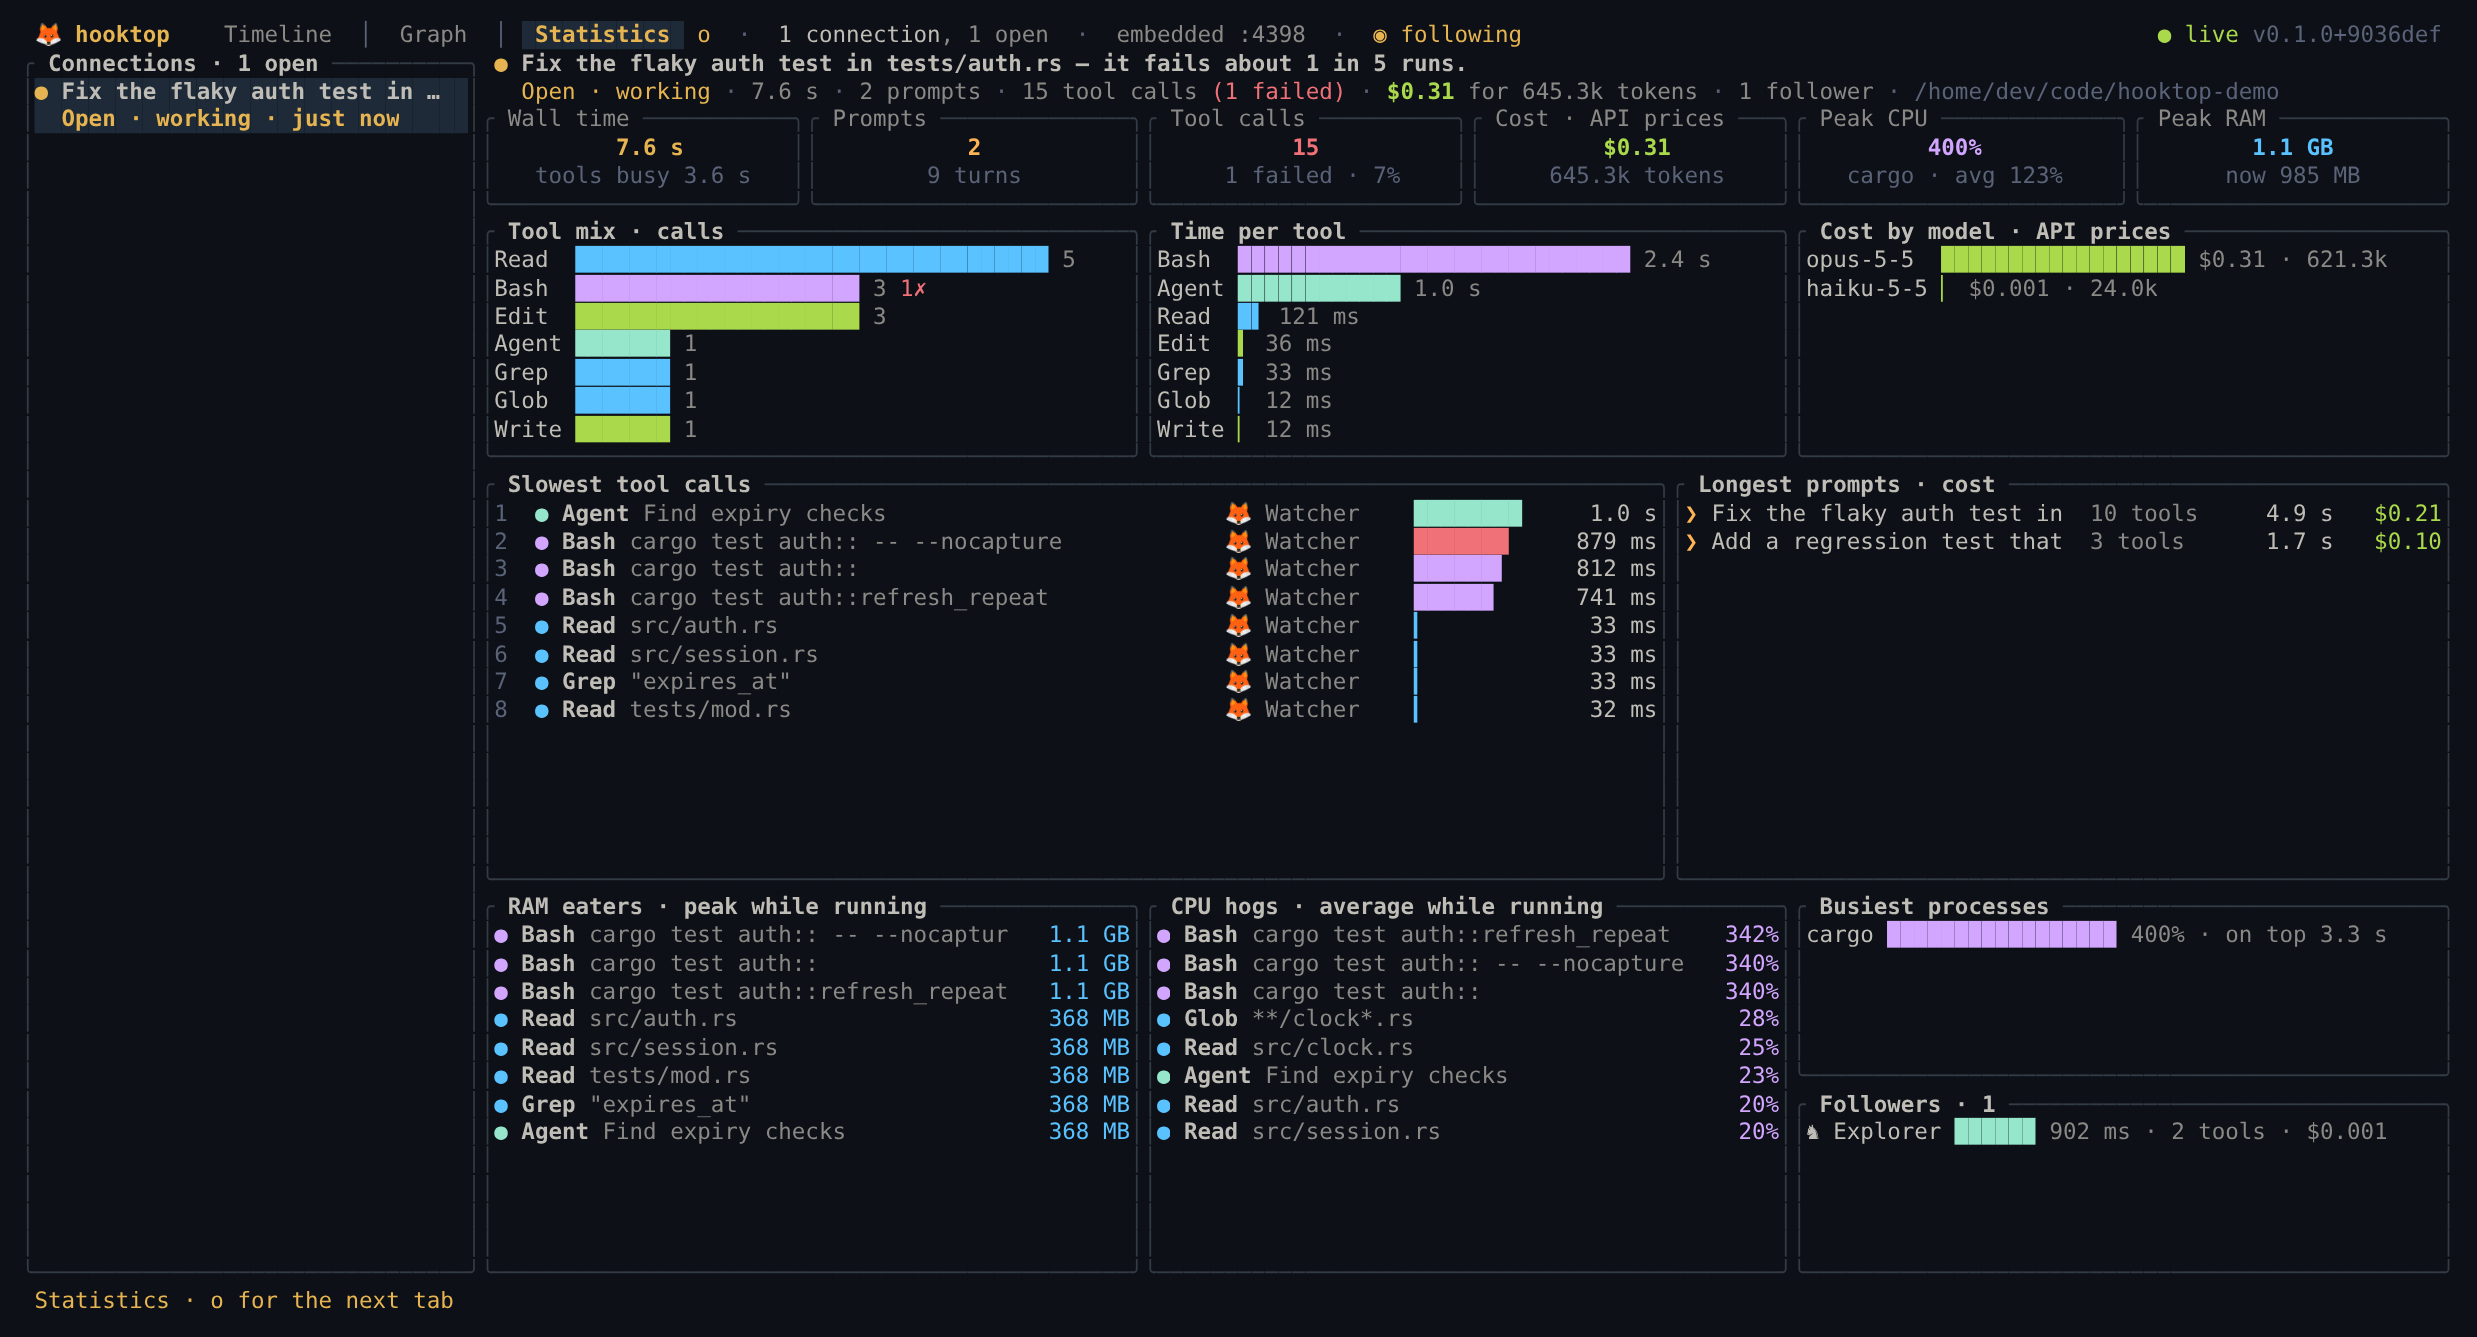
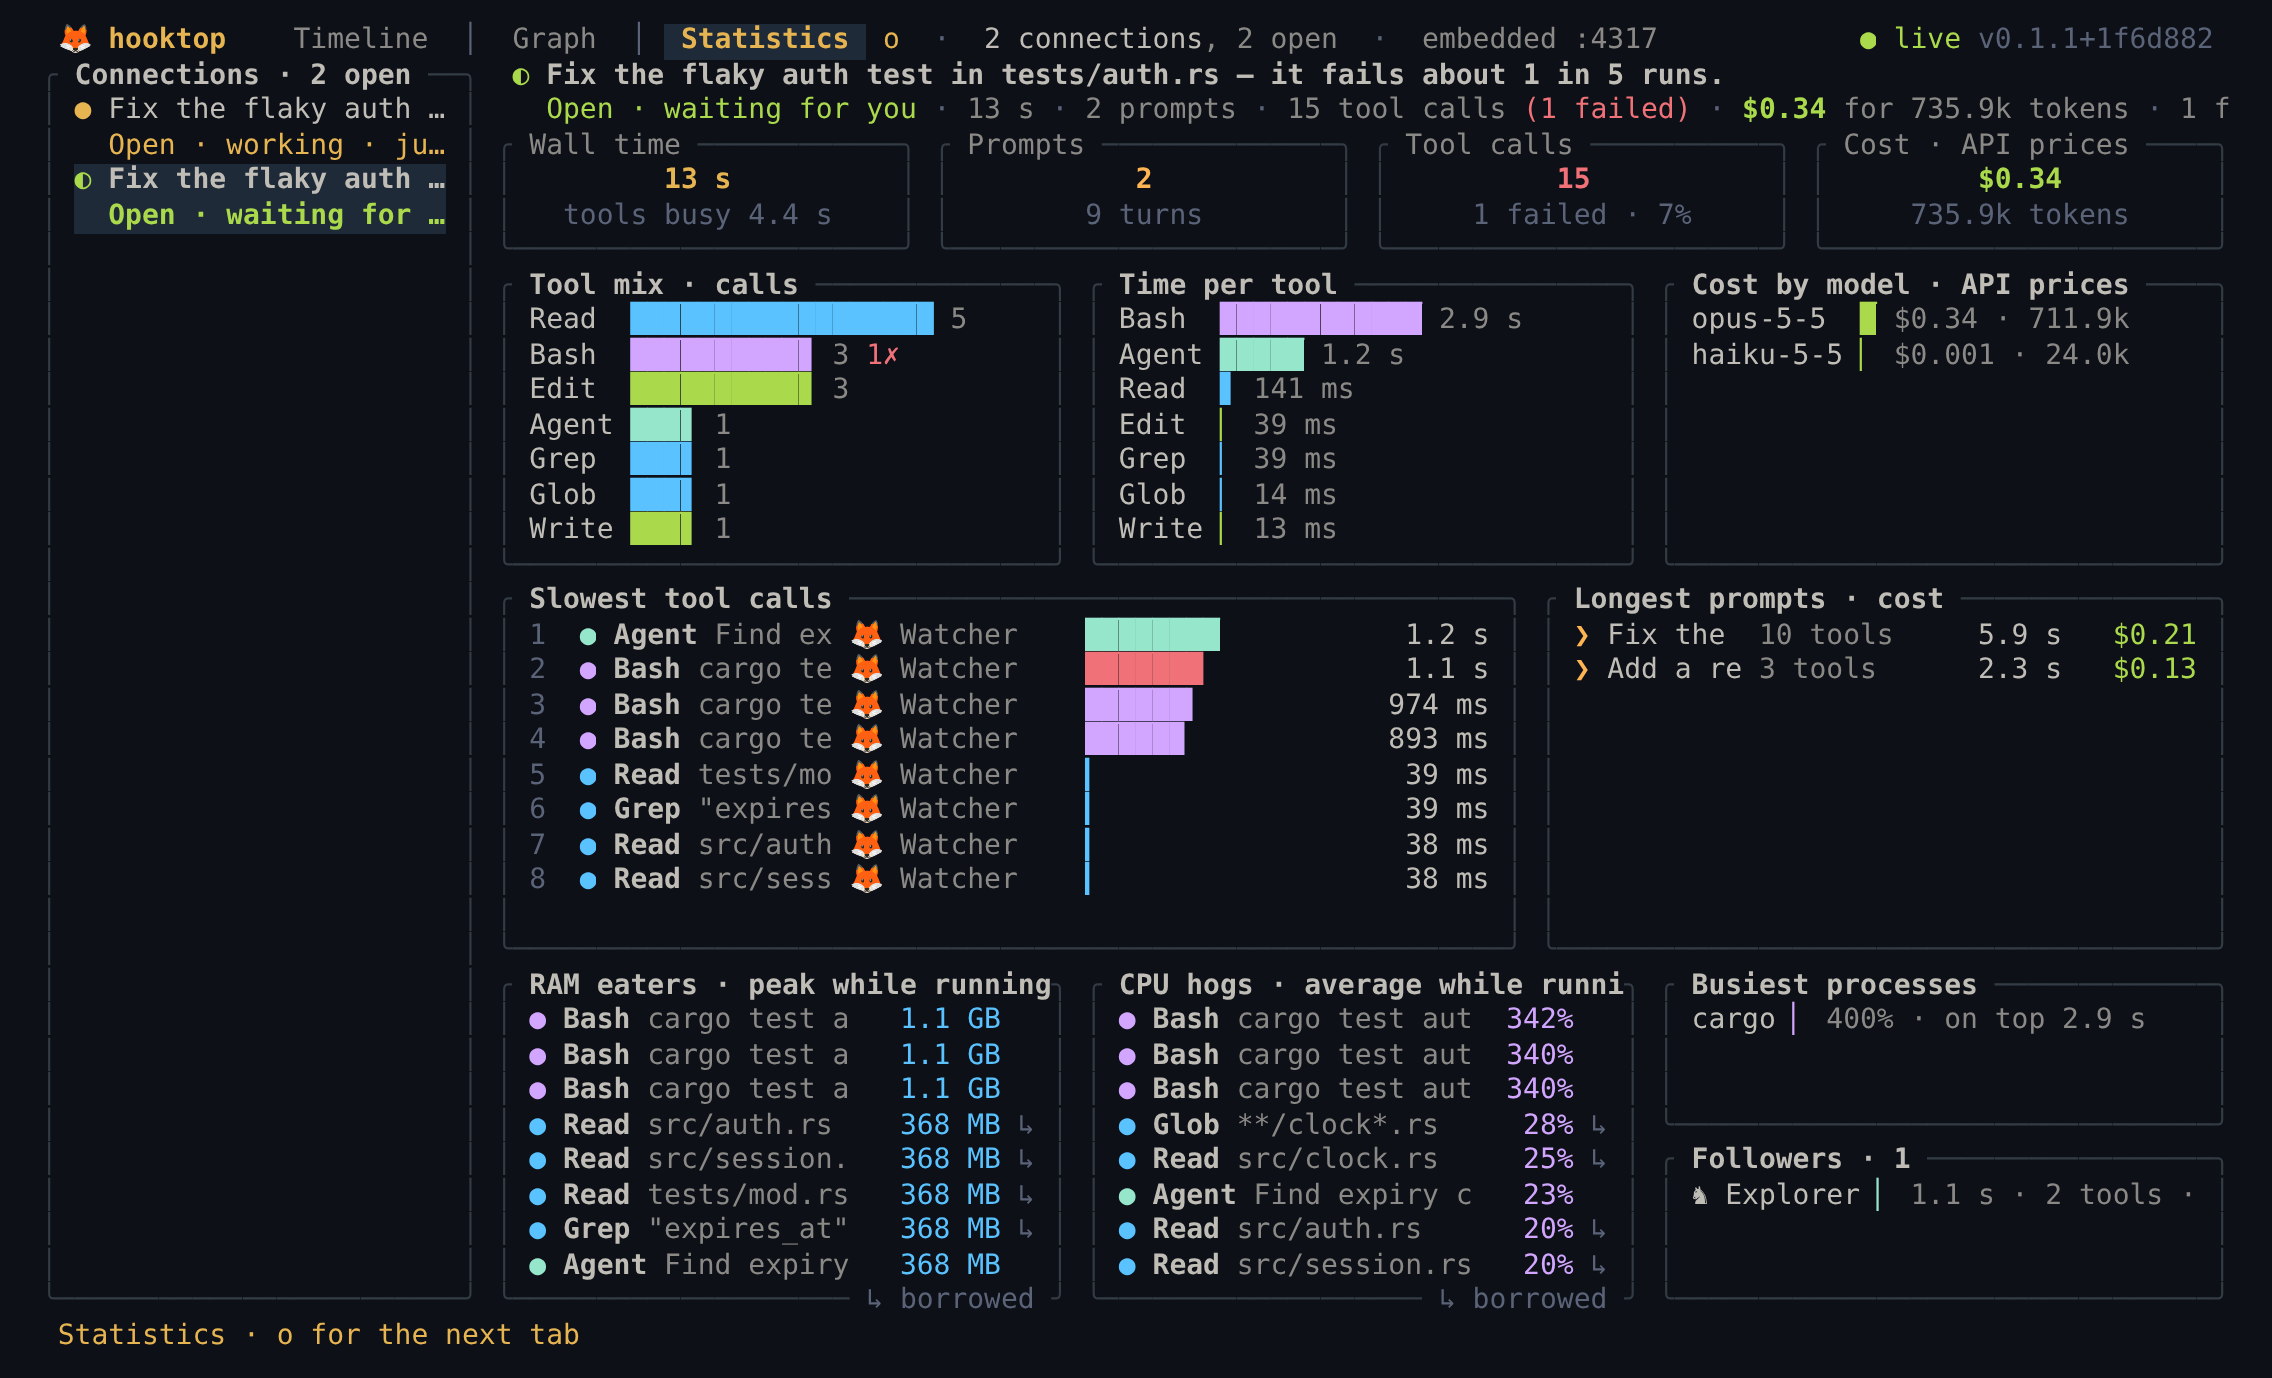
docs: make README images and links work on crates.io
crates.io resolves relative paths from the crate's folder, where docs/
doesn't exist, so the README now uses full GitHub URLs. The screenshots
show the new padding and reading marks.

diff --git a/README.md b/README.md
@@ -1,6 +1,6 @@
 # hooktop
 
-<img src="docs/knight.png" width="96" align="right" alt="A pixel-art knight, hooktop's mascot">
+<img src="https://raw.githubusercontent.com/nazliander/hooktop/main/docs/knight.png" width="96" align="right" alt="A pixel-art knight, hooktop's mascot">
 
 **See what Claude Code is really doing: every tool call, every subagent, what it costs your machine, and what it would cost in tokens, live in your terminal.**
 
@@ -13,7 +13,7 @@ hooktop is for developers who code with agents and want to look under the hood. 
 
 It's one small Rust binary that runs on your machine. Nothing leaves your computer.
 
-![hooktop's timeline: CPU and RAM charts over a session's history](docs/timeline.png)
+![hooktop's timeline: CPU and RAM charts over a session's history](https://raw.githubusercontent.com/nazliander/hooktop/main/docs/timeline.png)
 
 ## Quick start
 
@@ -44,11 +44,11 @@ flowchart LR
     S -- "live updates" --> TUI["Terminal UI"]
 ```
 
-Claude Code sends each event (a prompt, a tool call, a subagent starting or stopping) to hooktop. hooktop builds a graph per session, saves the raw events, measures the CPU and memory of Claude Code and everything it starts, and reads token usage from Claude Code's transcript. The terminal UI shows it all live. The technical details are in [docs/architecture](docs/architecture/README.md).
+Claude Code sends each event (a prompt, a tool call, a subagent starting or stopping) to hooktop. hooktop builds a graph per session, saves the raw events, measures the CPU and memory of Claude Code and everything it starts, and reads token usage from Claude Code's transcript. The terminal UI shows it all live. The technical details are in [docs/architecture](https://github.com/nazliander/hooktop/blob/main/docs/architecture/README.md).
 
 ## About the costs
 
-Costs are what the same tokens would cost through the Claude API, from [Anthropic's price list](https://platform.claude.com/docs/en/about-claude/pricing). On a Claude subscription you don't pay per token, so treat them as a measure of how heavy a session was. hooktop reads the token counts from Claude Code's own transcript and keeps only the numbers, never the text. To price a model hooktop doesn't know yet, add it to `prices.json`; see [docs/architecture/costs.md](docs/architecture/costs.md).
+Costs are what the same tokens would cost through the Claude API, from [Anthropic's price list](https://platform.claude.com/docs/en/about-claude/pricing). On a Claude subscription you don't pay per token, so treat them as a measure of how heavy a session was. hooktop reads the token counts from Claude Code's own transcript and keeps only the numbers, never the text. To price a model hooktop doesn't know yet, add it to `prices.json`; see [docs/architecture/costs.md](https://github.com/nazliander/hooktop/blob/main/docs/architecture/costs.md).
 
 ## Three tabs
 
@@ -60,7 +60,7 @@ Press `o` to move between them.
 
 | Graph | Statistics |
 |---|---|
-| ![Graph view](docs/graph.png) | ![Statistics view](docs/stats.png) |
+| ![Graph view](https://raw.githubusercontent.com/nazliander/hooktop/main/docs/graph.png) | ![Statistics view](https://raw.githubusercontent.com/nazliander/hooktop/main/docs/stats.png) |
 
 ## Keys
 
@@ -96,11 +96,11 @@ Run `hooktop --help` for every flag.
 
 ## Security
 
-hooktop only listens on your own machine, and every request needs a secret token that `hooktop hooks install` gives to Claude Code. Requests from web pages are refused, so a site you visit can't read your sessions or add fake ones. hooktop's files are readable only by you. Details are in [docs/architecture/security.md](docs/architecture/security.md).
+hooktop only listens on your own machine, and every request needs a secret token that `hooktop hooks install` gives to Claude Code. Requests from web pages are refused, so a site you visit can't read your sessions or add fake ones. hooktop's files are readable only by you. Details are in [docs/architecture/security.md](https://github.com/nazliander/hooktop/blob/main/docs/architecture/security.md).
 
 ## Contributing
 
-Issues and pull requests are welcome; see [CONTRIBUTING.md](CONTRIBUTING.md). Please report security problems privately, as described in [SECURITY.md](SECURITY.md).
+Issues and pull requests are welcome; see [CONTRIBUTING.md](https://github.com/nazliander/hooktop/blob/main/CONTRIBUTING.md). Please report security problems privately, as described in [SECURITY.md](https://github.com/nazliander/hooktop/blob/main/SECURITY.md).
 
 ## Development
 
@@ -110,8 +110,14 @@ cargo clippy --all-targets -- -D warnings
 cargo run -- --demo --no-store
 ```
 
-To release, bump `version` in `Cargo.toml` and push a matching tag (`git tag v0.1.0 && git push origin v0.1.0`). GitHub Actions builds macOS and Linux binaries and updates the Homebrew tap.
+To release:
+
+1. Add notes under **Unreleased** in [CHANGELOG.md](https://github.com/nazliander/hooktop/blob/main/CHANGELOG.md) as you go.
+2. Run `packaging/release.sh 0.1.3`. It moves those notes under the new version and bumps the crates.
+3. Commit, push, and push a matching tag (`git tag v0.1.3 && git push origin v0.1.3`, or create a release on GitHub).
+
+GitHub Actions builds macOS and Linux binaries, publishes the GitHub release with the changelog notes, updates the Homebrew tap and publishes to crates.io.
 
 ## License
 
-The code is Apache-2.0: see [LICENSE](LICENSE) and [NOTICE](NOTICE). The knight artwork is © Nazli Ander, licensed [CC BY 4.0](docs/ARTWORK.md).
+The code is Apache-2.0: see [LICENSE](https://github.com/nazliander/hooktop/blob/main/LICENSE) and [NOTICE](https://github.com/nazliander/hooktop/blob/main/NOTICE). The knight artwork is © Nazli Ander, licensed [CC BY 4.0](https://github.com/nazliander/hooktop/blob/main/docs/ARTWORK.md).
